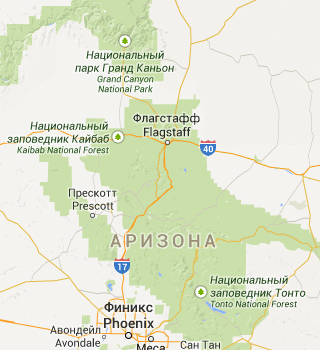
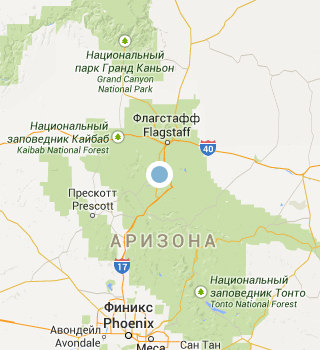
Выполнил критерий Д14

Changed region(s): [[0.4375, 0.4571, 0.5625, 0.5429]]

diff --git a/source/less/block/location.less b/source/less/block/location.less
@@ -13,11 +13,45 @@
   }
 }
 
+.location__wrapper {
+  width: 320px;
+  height: 350px;
+  background-image: url("@{img-path}/map-mobile.jpg");
+  background-size: contain;
+  background-position: center;
+  background-repeat: no-repeat;
+
+  @media (min-resolution: 144dpi), (min-resolution: 1.5dppx) {
+    background-image: url("@{img-path}/map-mobile@2x.jpg");
+  }
+
+  @media (min-width: @tablet-width) {
+    width: 100%;
+    background-image: url("@{img-path}/map-tablet.jpg");
+
+    @media (min-resolution: 144dpi), (min-resolution: 1.5dppx) {
+      background-image: url("@{img-path}/map-tablet@2x.jpg");
+    }
+  }
+
+  @media (min-width: @desktop-width) {
+    background-image: url("@{img-path}/map-desktop.jpg");
+
+    @media (min-resolution: 144dpi), (min-resolution: 1.5dppx) {
+      background-image: url("@{img-path}/map-desktop@2x.jpg");
+    }
+  }
+}
+
 .location__map {
   width: 320px;
   height: 350px;
 
   @media (min-width: @tablet-width) {
     width: 100%;
+  }
+
+  &--nojs {
+    display: none;
   }
 }

diff --git a/source/index.html b/source/index.html
@@ -184,7 +184,9 @@
 
         <section class="location">
           <h2 class="visually-hidden">Где находится Седона?</h2>
-          <iframe class="location__map" src="https://www.google.com/maps/d/embed?mid=1QsXbJrUXQ79P4Hb-TtkE7HE_3J8WJ3Rj" width="640" height="480"></iframe>
+          <div class="location__wrapper">
+            <iframe class="location__map location__map--nojs" id="location-map" src="https://www.google.com/maps/d/embed?mid=1QsXbJrUXQ79P4Hb-TtkE7HE_3J8WJ3Rj" width="640" height="480"></iframe>
+          </div>
         </section>
       </main>
 

diff --git a/source/js/script.js b/source/js/script.js
@@ -59,3 +59,16 @@ class PageNavigator
 new PageNavigator().init({
   isOpen: false
 });
+
+function showMap()
+{
+  const map = document.getElementById("location-map");
+  if (!map instanceof HTMLElement)
+  {
+    throw Error("Can't find map node");
+  }
+
+  map.classList.remove("location__map--nojs");
+}
+
+showMap();
